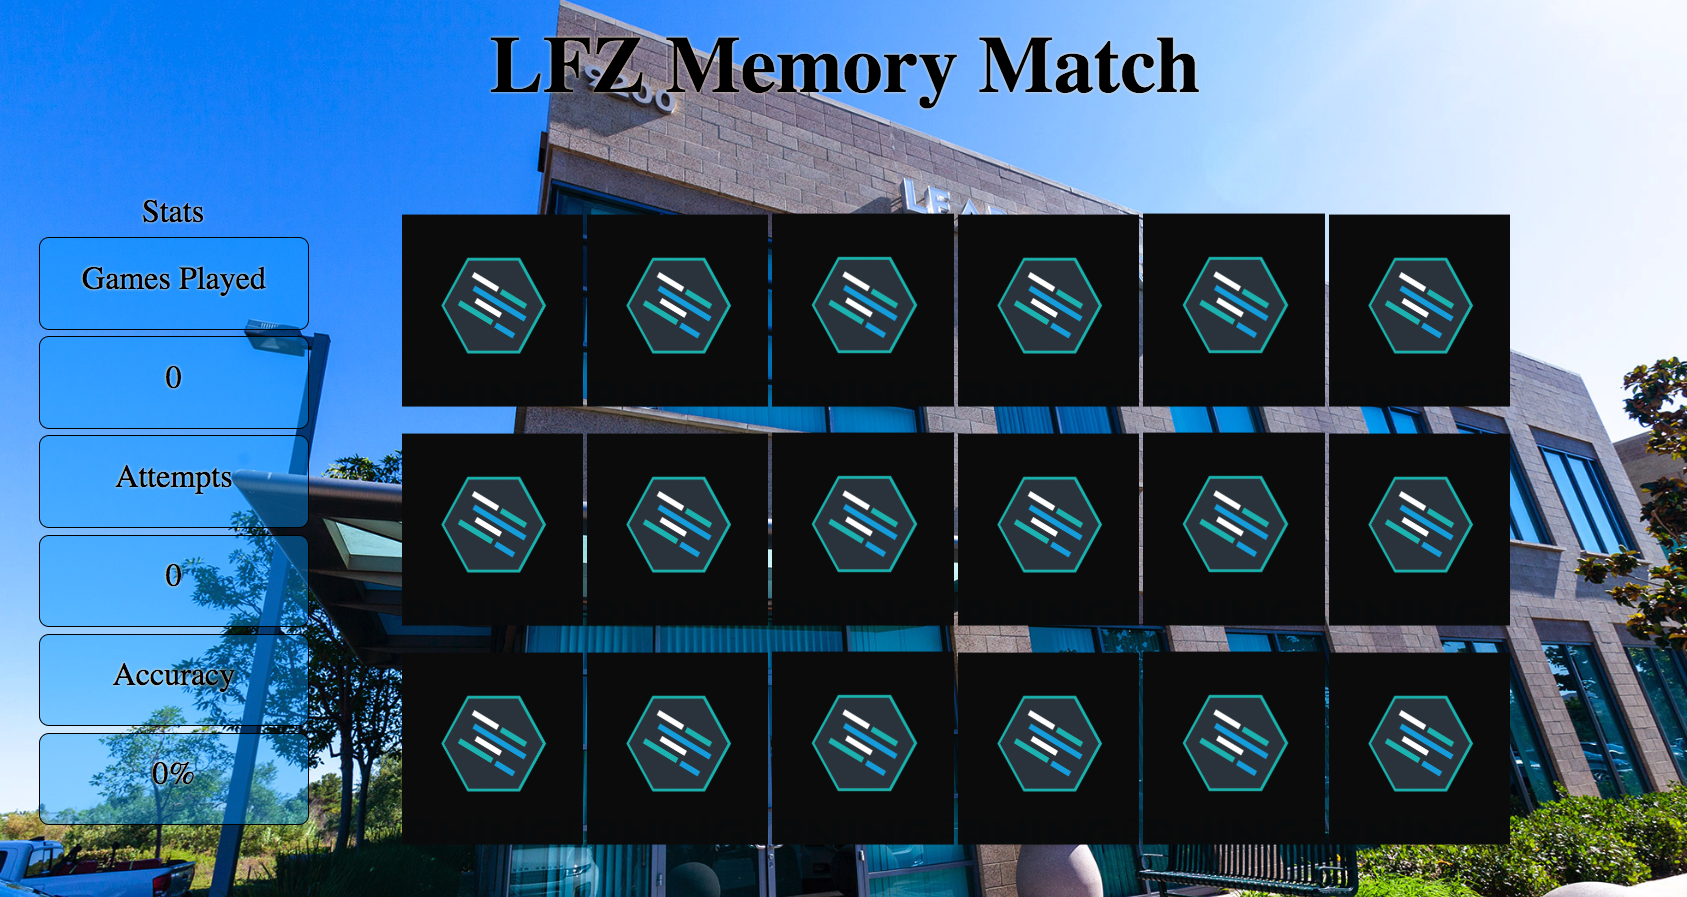
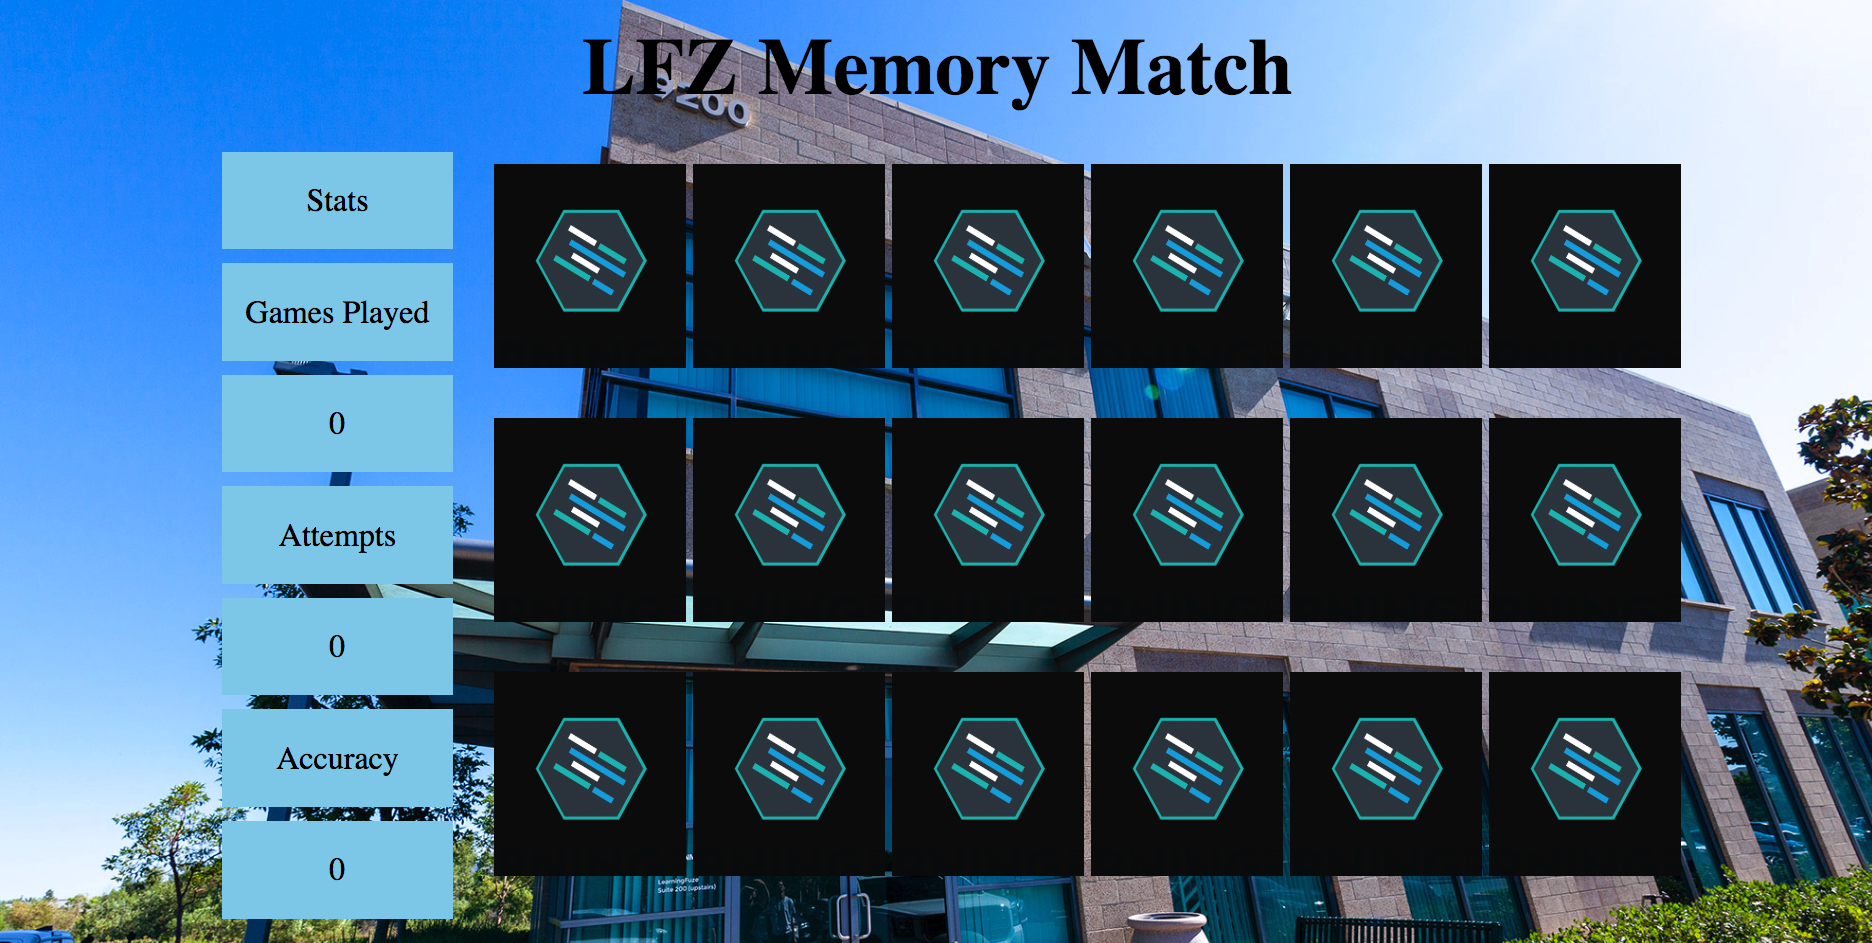
skeleton readme in progress, steps 1 through 4 completed

diff --git a/guides/features/skeleton.md b/guides/features/skeleton.md
@@ -1,56 +1,139 @@
-Instructions - Skeleton
+Instructions - User Can View Game
 --
 
 ### Overview
 
-In this feature, you are going to use HTML and CSS to create and initially style the skeleton of your Memory Match application.
+In this feature, you are going to set up the project and complete all the work necessary to view the Memory Match game.
+
+Let's look at a list of steps which much be accomplished for the Feature.
+
+1. Design a simple grid system for use in constructing the layout.
+2. Identify what primary elements you will need to divide the page correctly.
+3. Identify the child elements you will need in each of the primary elements.
+4. Build the initial HTML skeleton based on the required element list.
+5. Implement the correct CSS to style the skeleton based on the Design Doc
+
 
 Here is an example of the initial skeleton
 
 #### Initial Build
-![initial-build](../images/basic-template.jpg)
+![initial-build](../images/basic-template.png)
 
-## Notice that the page is divided into 3 sections:
-  - A `<header>` element, which will be used for a heading and/or logo.
-  - An `<aside>` element, which will be used to hold data / information regarding game stats.
-  - a `<main>` element, which will be used to hold the cards to play through your Memory Match game.
+Now that you the basic layout of what you have to build, let's take a look at the steps above in order:
 
-## Things to consider about the skeletal structure
-  - It is recommended to use a simple `grid` structure for the overall layout.
-    - Start with a `container` element which will hold the 3 primary elements
-    - Now consider how two rows could be used for the layout:
-      - One row for the `header`
-      - One row for the `aside` and the `main`
-    - Now think about `columns`
-      - The `header` appears to use all available columns.
-      - The `aside` appears to use about 1 / 5 of the total width.
-      - The `main` appears to use the remaining 4 / 5s of the total width.
-      - So perhaps using 5 total columns would be useful...?
-  - Once you have completed planning the grid layout, let's look at the child elements contained within the 3 primary elements:
-  
+## 1. Design a simple grid system for use in constructing the layout.
+
+  - First let's remember the components of a grid system:
+    - A Container
+      - Which is a fixed size container that holds the rows and columns of the layout.
+    - A Row
+      - Which is a horizontal collection of elements which span the width of the container.
+    - A Column
+      - Which is a unit of space on the x axis that determines the width of individual elements in a row.
+  - Now, let's look at the Design Doc again and consider how to break the layout down into a simple grid:
+    - Notice that there is are two rows of content:
+      - A header which takes up the entire width of the page
+      - And two Elements which hold Stats information and the Game cards
+    - This means the layout can be broken down into:
+      - A single `Container`
+      - With two `Rows`
+    - With that information in hand, it is time to decide on columns.
+  - Most popular third party grid systems such as BootStrap and Materialize use a 12 column grid system, so that will be a great place to start.
+    - If we take 100% and divide it by 12, that gives us approximately 8.33% per column. So let's use 8% to give us a little room to manuever
+      - The reason for this slight reduction in column size is that Bootstrap and other grid libraries use a lot of additional CSS for Margin, Padding, and few other things to allow their system to use a truly 100% wide - 12 column setup.
+      - But for the purposes of this application, a slight reduction in column size will have a negligible affect, and will vastly simplify the creation of the grid system you are using.
+  - Now that we have decided on a 12 column grid system with 8% wide columns, let's construct the CSS classes for the grid!
+    - Create a new grid.css file as a sibling to the current style.css file.
+      - Create a class named `container` with the following CSS:
+        - width: 100%
+        - max-width: 1500px
+        - margin: auto
+        - The above CSS will create a container which is centered on screens which are wider than 1500px and takes up 100% of the width on screens less than 1500px wide.
+      - Next create a class named `row` with the following CSS:
+        - width: 100%
+        - display: flex
+        - margin-bottom: .5rem
+        - The above CSS will create a row which is 100% of the width of the container, creates a little space between rows, and is prepared to use `flexbox` properties on its children.
+      - Finally, create the 12 column classes with width set to increments of 8%. For example:
+        ``` css
+          .col-1 {
+            width: 8%;
+          }
+          .col-2 {
+            width: 16%;
+          }
+          .col-3 {
+            width: 24%;
+          }
+        ```
+          - Make sure to create all 12 classes!
+  - With the CSS for our custom grid complete, it's time to move on to the next step!
+
+  ## 2. Identify what primary elements you will need to divide the page correctly.
+
+  - Looking at the Design Doc again:
+    ![initial-build](../images/basic-template.png)
+    We notice that there are 3 Primary elements in the layout:
+    - A `<header>` element, which will be used for a heading and/or logo.
+    - An `<aside>` element, which will be used to hold data / information regarding game stats.
+    - a `<main>` element, which will be used to hold the cards to play through your Memory Match game.
+  - Most layouts can be broken down into only a few primary elements just as this one can be. So with the knowledge of the three elements we need. Let's move on to the next step!
+
+  ## 3. Identify the child elements you will need in each of the primary elements.
+
+  - Looking at the Design Doc once again:
+    ![initial-build](../images/basic-template.png)
+    Let's evaluate which child elements are needed in each of the primary elements:
+      - `<header>`
+        - child elements:
+          - There is a single line of text
+            - This requires a single text element.
+      - `<aside>`
+        - child elements:
+          - There are 7 boxes within the `aside` element, and each of the boxes contains text
+            - This requires 7 divs, and each div will have a text element as a child.
+      - `<main>`
+        - child elements:
+          - There are 18 boxes within the `main` element
+            - This requires a minimum of 18 divs.
+      - `Note:` Some of the above element amounts may increase or otherwise change as you continue to build the game, but these are the correct number to start with at this stage of planning!
+      - With our child elements determined, move on to the next step!
+
+  ## 4. Build the initial HTML skeleton based on the required element list.
+
+  - Now it is time to build the initial HTML structure for the Memory Match game:
+    - Using the list of required elements from steps 2 and 3, create your HTML skeleton in the `index.html` file.
+      - Remember that some elements you may initially choose could be replaced, but the most important thing is to create a skeleton based on the available information!
+    - Once you have completed the initial skeleton build, move on to the next step!
+
+  ## 5. Implement the correct CSS to style the HTML skeleton based on the Design Doc
+
+  - With the initial HTML skeleton completed, it is now time to start adding CSS.
+  - There is a list of things to consider
 
 
 
-- In a `style.css` file, include the CSS properties to get a rough match of the provided design doc.
-  - Keep in mind that the initial build will be for a static page.
-  - It will be refactored into full responsiveness prior to inclusion in your portfolio, but:
-    - You do not have the time for a responsive build at this point.
-    - Focus on learning how to position elements on the page.
-    - Float and Flexbox are both useful for building the layout.
-      - Create classes on the elements you want to apply CSS to, use those classes for CSS selection.
-        - Do not use ids for styling, ids are for JavaScript selection.
-      - Use borders / background colors to ease the viewing of the elements you want to position on the page.
-      - Use the styles feature of the Chrome Inspector to make changes in real time.
-  - And Lastly, CSS is hard! Make sure to ask questions and keep at it!
+
+
+
+
+
+
+
+
+
+
+
+
+
 
 
 ### Design Docs
 
-#### Final Design with all assests
+#### Initial CSS build with background images
 ![demo-pic-1](../images/demo-pic-1.png)
 
-#### With cards flipped to show images
-![demo-pic-2](../images/demo-pic-2.png)
+
 
 
 

diff --git a/README.md b/README.md
@@ -60,7 +60,7 @@ Before starting on this project, you will need to **fork** and then **clone** th
 ## Features
 1. Below is the breakdown of feature sets you need to complete in order to finish the MVP (Minimal Viable Product).
 
-- HTML Skeleton - [Instructions](guides/features/skeleton.md)
+- User Can View Game - [Instructions](guides/features/skeleton.md)
 - Flip One Card - [Instructions](guides/features/flip-one-card.md)
 - Match Two Cards - [Instructions](guides/features/match-two-cards.md)
 - Win Condition - [Instructions](guides/features/win-condition.md)
